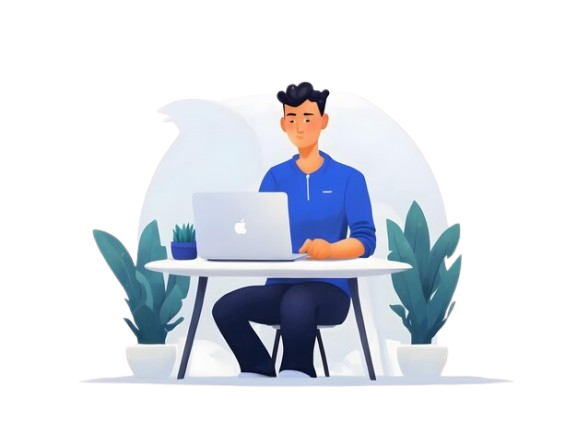
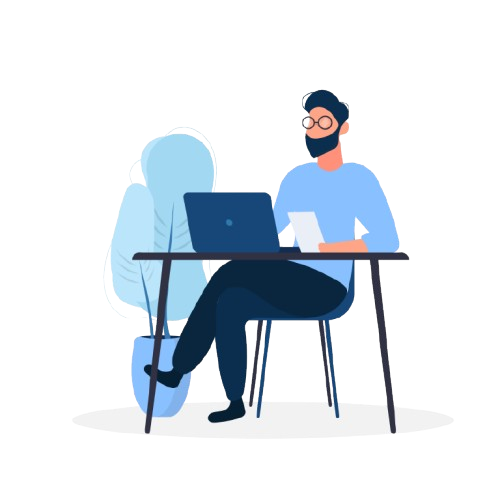
Keep working on Oct 03, 24

diff --git a/dashboard/dashboard.html b/dashboard/dashboard.html
@@ -46,7 +46,7 @@
             </div>
         </div>
 
-        <div id="dashboard_frontpage_wrapper" class="d_flex j_around align_center">
+        <div id="dashboard_frontpage_wrapper" class="d_flex j_around">
             <div class="content_wrapper">
                 <h1 class="dashboard_main_heading">Welcome to your Dashboard!</h1>
                 <h3 style="opacity: 0.7;">Developed By : <a href="https://www.linkedin.com/in/usama-israr-khan-3b68312ab/" target="_blank" class="anchors">Usama Israr</a></h3>
@@ -57,7 +57,7 @@
                 </div>
             </div>
 
-            <div class="img_wrapper">
+            <div class="img_wrapper mt_30">
                 <img src="../assets/student-with-laptop5-removebg-preview.png" alt="Student with laptop" class="dashboard_front_page_img">
             </div>
         </div>

diff --git a/dashboard/dashboard.css b/dashboard/dashboard.css
@@ -119,29 +119,26 @@
 
 
 #dashboard_frontpage_wrapper {
-    width: 100%;
-    margin-top: 100px;
-    /* display: flex;
-    align-items: center;
-    justify-content: space-around; */
+    padding: 50px;
+    /* border: 1px solid black; */
 }
 
 .content_wrapper {
-    width: 45%;
-    height: 20rem;
-    border: 1px solid yellow;
+    width: 50%;
+    /* border: 1px solid yellow; */
 }
 
 .dashboard_main_heading {
     color: var(--color-text-1);
     font-size: 3.5rem;
     text-shadow: 2px 2px 2px black;
-    margin: 0;
+    /* margin: 0; */
 }
 
 .dashboard_front_page_img {
-    width: 95%;
-    border: 1px solid red;
+    width: 25rem;
+    height: 25rem;
+    /* border: 1px solid red; */
 }
 
 
